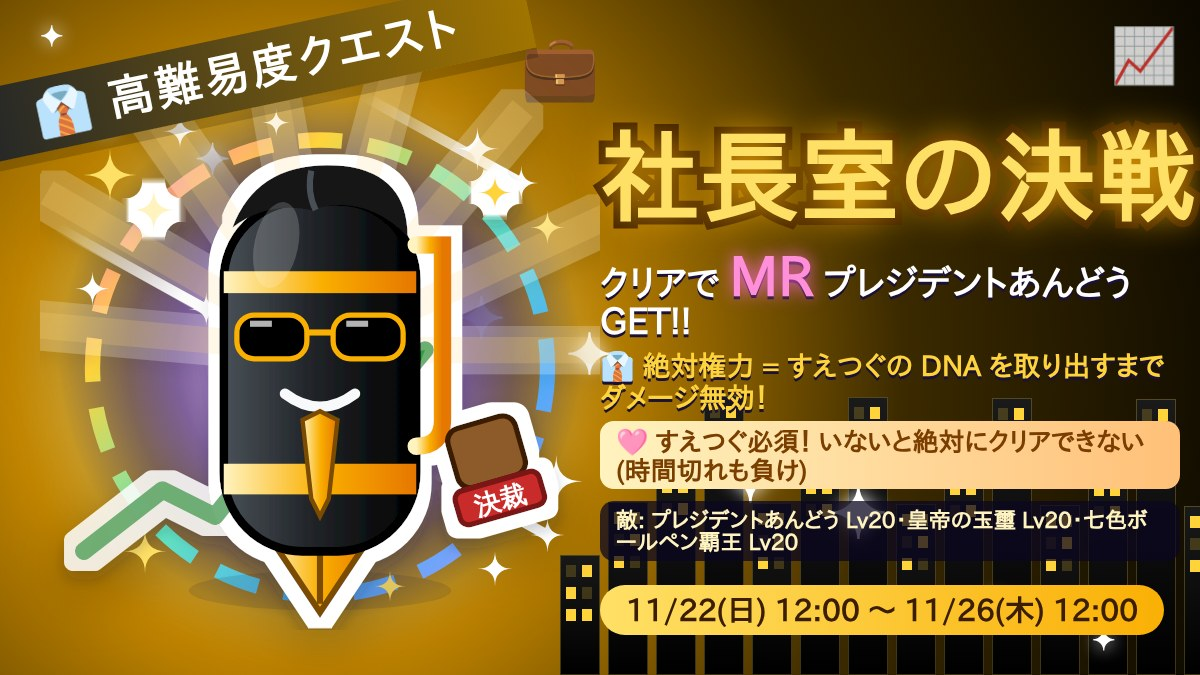
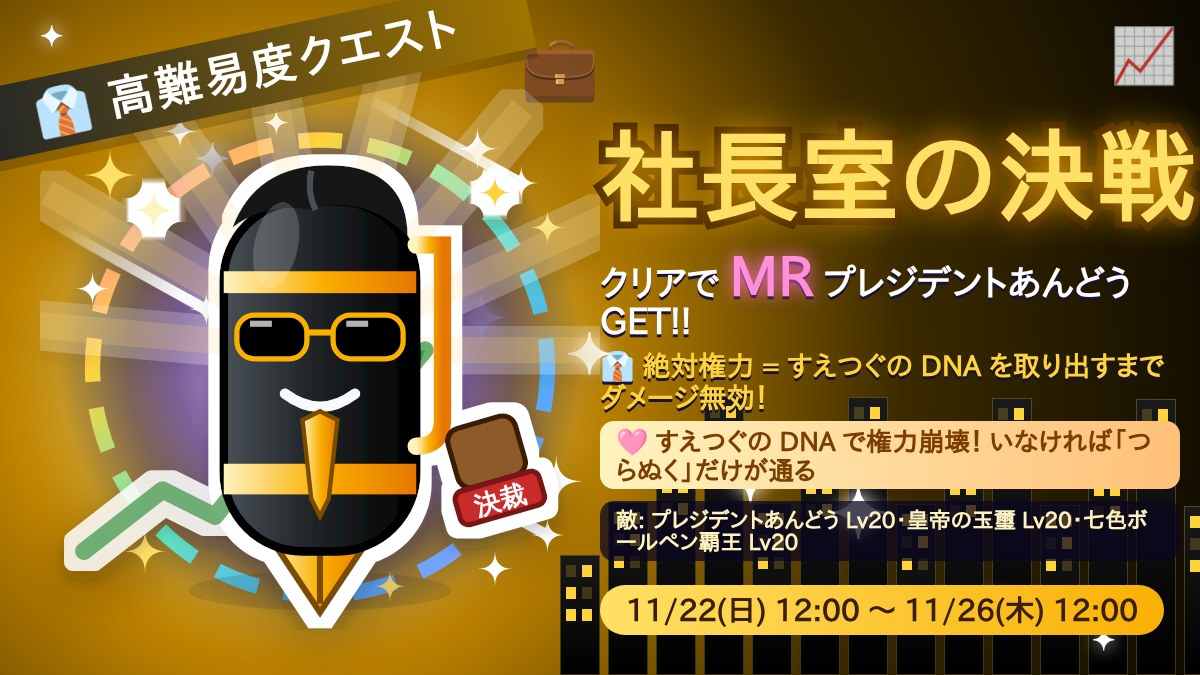
社長室の決戦: すえつぐなしの勝ち筋 (わざ「つらぬく」は絶対権力を通る。Lv18 で つらぬく 2 枚 約 13%・1 枚 約 6%・すえつぐ入り 25%)
Claude-Session: https://claude.ai/code/session_0131LAB3VBSEDYy6z21kYLHB

Changed region(s): [[0.4933, 0.6222, 0.9558, 0.7156]]

diff --git a/cards.js b/cards.js
@@ -270,6 +270,7 @@ const TAIKA_POWER = 1.2;  // 大化の改新: 1.2 倍のこうげき + 味方の
 const ORDER_ACTIVE = 1.5, ORDER_BENCH = 0.7; // 社長命令: 場のカードに 1.5 倍・控えに 0.7 倍の無属性こうげき
 // 絶対権力 (クエスト「社長室の決戦」のボスだけ): わざを封じられる (DNAを取り出す) までは、どんなダメージも受けない
 const immune = (c) => !!c.tyrant && !(c.sealed > 0);
+const TYRANT_PIERCE = Number(process.env.CB_TYRANT_PIERCE) || 1; // ただし「つらぬく」は絶対権力をつらぬく (すえつぐなしの、難しい勝ち筋。Lv18 で つらぬく 2 枚のデッキは勝率 約 13%・1 枚は 約 6%、すえつぐ入りは 25%)
 const DEATHSONG_POWER = 1.2; // 死の歌声─一方的な愛─: 1.2 倍のこうげき + このターンに受けた相手が使い手を倒すと、相手のカードをランダムで 1 枚道連れ
 const DNA_POWER = 1.8; // DNAを取り出す: 1.8 倍のこうげき + 相手の場のカードは、そのバトル中ずっとわざを使えない (わざ封じ。交代しても・大化の改新でも戻らない)
 // ボスクエスト (高難易度クエスト) で使えるアイテム。対戦中にコインで買って、その場で使う (そのターンの行動になる)
@@ -326,16 +327,18 @@ function resolveTurn(state, acts, rnd) {
   const hit = (p, power, opt = {}) => {
     const me = sides[p].cards[sides[p].active], o = 1 - p;
     const ti = opt.target ?? sides[o].active, foe = sides[o].cards[ti], bench = ti !== sides[o].active;
-    if (immune(foe)) { ev.push({ k: 'immune', p: o, card: foe.name, bench }); return 0; } // 絶対権力: ダメージなし
+    const tyr = immune(foe);
+    if (tyr && !opt.pierce) { ev.push({ k: 'immune', p: o, card: foe.name, bench }); return 0; } // 絶対権力: ダメージなし (つらぬく だけは通る)
     const tm = opt.typeless ? 1 : typeMult(me.type, foe.type);
     const base = opt.pierce ? me.atk * power * 2 : me.atk * power * 2 - foe.def * 0.6; // 1 枚あたり 3〜4 回の攻撃で倒れるくらい
     let dmg = Math.max(1, Math.round(base * tm * (0.9 + rnd() * 0.2)));
     const g = bench ? 1 : guard[o];                                   // ガード・バリアが守るのは場に出ているカードだけ
     if (!opt.pierce) dmg = Math.round(dmg * g);
+    if (tyr) dmg = Math.max(1, Math.round(dmg * TYRANT_PIERCE)); // つらぬく: 絶対権力をつらぬく
     dmg = Math.min(dmg, foe.hp);
     foe.hp -= dmg;
     const wasLoved = foe.hp <= 0 && loved.get(me) === foe; // 一方的な愛: 歌を受けた me が、歌った foe をこのターンに倒した
-    ev.push({ k: 'hit', p, card: me.name, target: foe.name, dmg, eff: tm > 1 ? 'good' : tm < 1 ? 'bad' : '', guarded: !opt.pierce && g < 1, bench, typeless: !!opt.typeless });
+    ev.push({ k: 'hit', p, card: me.name, target: foe.name, dmg, ...(tyr ? { tyrantPierce: true } : {}), eff: tm > 1 ? 'good' : tm < 1 ? 'bad' : '', guarded: !opt.pierce && g < 1, bench, typeless: !!opt.typeless });
     if (foe.hp <= 0) ev.push({ k: 'ko', p: o, card: foe.name, bench });
     if (wasLoved) { // 道連れ: 倒した側 (p) の場と控えの生きているカードから、ランダムで 1 枚を倒す
       loved.delete(me);
@@ -704,10 +707,10 @@ const QUESTS = [
   { id: 'ando-2026', name: '社長室の決戦', boss: 'プレジデントあんどう', emoji: '👔', reward: 'ando', bg: 'shachou', hard: true, boost: 0.882, // tune_oni quest:ando-2026 (すえつぐ入りの Lv18 SSR・MR デッキで勝率 25%。すえつぐなしは 0.6 倍でも 0%)
     must: 'suetsugu', timeupLose: true, bossPassive: { ando: 'tyrant' },
     award: '社長の椅子が空いた…伝説の始まりだ👔👔👔',
-    hint: '🩷 すえつぐ必須！ いないと絶対にクリアできない (時間切れも負け)',
-    pr: 'ボスのプレジデントあんどうは「絶対権力」で、どんなこうげきも毒も効かない…！ 魔法使いすえつぐの「DNAを取り出す」でわざを封じたときだけ、権力を失ってダメージが通る。時間切れは負け。\n敵は おもい 2 体 (あんどう・皇帝の玉璽) と きる 1 体 (七色ボールペン覇王)。📄つつむ のすえつぐが有利！',
+    hint: '🩷 すえつぐの DNA で権力崩壊！ いなければ「つらぬく」だけが通る',
+    pr: 'ボスのプレジデントあんどうは「絶対権力」で、どんなこうげきも毒も効かない…！ 魔法使いすえつぐの「DNAを取り出す」でわざを封じたときだけ、権力を失ってダメージが通る。「つらぬく」だけは権力をつらぬける。時間切れは負け。\n敵は おもい 2 体 (あんどう・皇帝の玉璽) と きる 1 体 (七色ボールペン覇王)。📄つつむ のすえつぐが有利！',
     text: '巨大企業の頂点に立つ社長の万年筆「プレジデントあんどう」。絶対権力で、どんな攻撃も受けつけない… 魔法使いすえつぐが DNA を取り出したときだけ、権力がくずれる。勝てば MR「プレジデントあんどう」が仲間になる',
-    tip: 'すえつぐがいないと絶対に勝てません。あんどうは「絶対権力」で、すえつぐの「DNAを取り出す」を受けるまでダメージ・毒・流星・道連れが効かない。時間切れ (30 ターン) は負け。すえつぐを守りながら、あんどうが場にいるときに DNA を取り出そう。社長命令は控えにもダメージが入るので、控えのすえつぐも削られる',
+    tip: 'いちばんの攻略法は魔法使いすえつぐ。あんどうは「絶対権力」で、すえつぐの「DNAを取り出す」を受けるまでダメージ・毒・流星・道連れが効かない。すえつぐがいなければ、わざ「つらぬく」(流星定規・氷結万年筆など) だけがダメージを通せる (難しい)。時間切れ (30 ターン) は負け。すえつぐを守りながら、あんどうが場にいるときに DNA を取り出そう。社長命令は控えにもダメージが入るので、控えのすえつぐも削られる',
     enemy: [['ando', 20], ['gyokuji', 20], ['rainbowpen', 20]],
     titles: { 1: '社長室最速クリア👔', 2: '社長室準最速クリア👔' },
     start: Date.parse('2026-11-22T12:00:00+09:00'), end: Date.parse('2026-11-26T12:00:00+09:00') },

diff --git a/public/app.js b/public/app.js
@@ -3752,6 +3752,7 @@ async function viewBattle(params) {
     : e.k === 'dogma' ? `🧬 ${name(e.p, e.card)}のセントラルドグマ！ ${e.healed.map((x) => `${x.card} +${x.amount}`).join('・')} 回復`
     : e.k === 'morale' ? `${e.p === you ? '' : '相手の'}${e.card}がたおれ、${e.p === you ? '味方' : '相手'}の士気が上がった！🔥 (攻撃 1.4 倍・防御 1.3 倍)`
     : e.k === 'sermon' ? `${name(e.p, e.card)}の説教！ 📢${e.to !== null ? ` ${e.p === you ? '相手の' : ''}${e.target}の攻撃力が ${e.from} → ${e.to} に下がった` : ` (${e.p === you ? '相手の' : ''}${e.target}はもう説教ずみ)`}${e.cured.length ? `。${e.cured.join('・')}の毒が治った` : ''}`
+    : e.k === 'hit' && e.tyrantPierce ? `🗡 ${name(e.p, e.card)}のつらぬく！ 絶対権力をつらぬいて ${e.target}に ${e.dmg} ダメージ`
     : e.k === 'immune' ? `👔 ${e.p === you ? '' : '相手の'}${e.card}の絶対権力！ ダメージを受けない`
     : e.k === 'tyrantdown' ? `🧬💥 DNA を取り出されて、${e.p === you ? '' : '相手の'}${e.card}は絶対権力を失った！ ダメージが通るようになった`
     : e.k === 'deathsong' ? `🎤💀 ${name(e.p, e.card)}の死の歌声─一方的な愛─！ ${e.p === you ? '相手の' : ''}${e.target}は呪われた… (このターンに${e.p === you ? '' : '相手の'}${e.card}を倒すと道連れ)`

diff --git a/official.js b/official.js
@@ -67,7 +67,7 @@ const UPDATES = [
   { key: 'preview-ando-2026-11-22', at: Date.parse('2026-11-22T09:30:00+09:00'), until: Date.parse('2026-11-22T12:00:00+09:00'), banner: 'quest-ando-2026',
     text: `👔【高難易度クエスト予告】今日 11/22(日) 12:00 から 11/26(木) 12:00 まで、「社長室の決戦」開催！
 ボスは プレジデントあんどう。「絶対権力」で、どんなこうげきも毒も効かない…
-🩷 権力をくずせるのは、魔法使いすえつぐの「DNAを取り出す」だけ！ すえつぐがいないと絶対にクリアできません (11/23(月) 8:00 からの IppO祭で登場)
+🩷 権力をくずせるのは、魔法使いすえつぐの「DNAを取り出す」(11/23(月) 8:00 からの IppO祭で登場)。すえつぐがいなければ、わざ「つらぬく」だけが権力をつらぬける…！
 敵は あんどう・皇帝の玉璽・七色ボールペン覇王 (全員 Lv20)。時間切れは負け。最速・準最速クリアには称号👔 ${TAG}` },
   { key: 'preview-y-2026-11-22', at: Date.parse('2026-11-22T03:40:00+09:00'), until: Date.parse('2026-11-22T08:00:00+09:00'), banner: 'quest-y-2026',
     text: `🎤【高難易度クエスト予告】今日 11/22(日) 8:00 から 11/25(水) 8:00 まで、「Y降臨」開催！

diff --git a/public/index.html b/public/index.html
@@ -227,6 +227,6 @@
 </div>
 
 <script src="/cards-art.js?v=20"></script>
-<script src="/app.js?v=115"></script>
+<script src="/app.js?v=116"></script>
 </body>
 </html>

diff --git a/CLAUDE.md b/CLAUDE.md
@@ -34,7 +34,7 @@
 - 高難易度クエストでは、開始 30 分後からアイテム (`cards.js` の `ITEMS`: 回復薬・全回復薬・アイスティー) をコインで買って使える
 - 高難易度クエストの報酬キャラは勝つたびに 1 枚もらえ、25 枚で LR に昇格 (`cards.js` の `LR_PROMOTE`。能力 +35%・虹色のデザイン)
 - Y降臨 (11/22 8:00〜11/25 8:00) の Y のわざ「死の歌声─一方的な愛─」(`deathsong`): 1.2 倍のこうげき + 受けた相手がそのターンのうちに Y を倒すと、倒した側の場と控えの生きているカードからランダムで 1 枚が道連れ (`resolveTurn` の `loved`)
-- 社長室の決戦 (11/22 12:00〜11/26 12:00・ボス プレジデントあんどう): すえつぐがいないと絶対にクリアできない。クエストの `bossPassive: { ando: 'tyrant' }` でボスだけ「絶対権力」(わざを封じられるまで、こうげき・毒・流星・道連れのダメージなし。`immune`)、`timeupLose` で時間切れは負け (`state.timeupWinner`)。報酬のあんどうには絶対権力はない。`must: 'suetsugu'` で tune_oni が毎回すえつぐを入れて測る (`TUNE_NO_MUST=1` で入れずに測る)
+- 社長室の決戦 (11/22 12:00〜11/26 12:00・ボス プレジデントあんどう): いちばんの攻略はすえつぐ (すえつぐなしは わざ「つらぬく」だけが絶対権力を通る (`TYRANT_PIERCE`)。Lv18 で すえつぐ入り 25%・つらぬく 2 枚 約 13%・1 枚 約 6%)。クエストの `bossPassive: { ando: 'tyrant' }` でボスだけ「絶対権力」(わざを封じられるまで、こうげき・毒・流星・道連れのダメージなし。`immune`)、`timeupLose` で時間切れは負け (`state.timeupWinner`)。報酬のあんどうには絶対権力はない。`must: 'suetsugu'` で tune_oni が毎回すえつぐを入れて測る (`TUNE_NO_MUST=1` で入れずに測る)
 - 高難易度クエスト (`QUESTS` の `hard: true`) も同じ: 敵は先を読む CPU、`boost` は `node tools/tune_oni.js` の `quest:<id>` の結果を入れる
 
 ## ブリードモンスターズ (monster.js・public/games/monster/)
